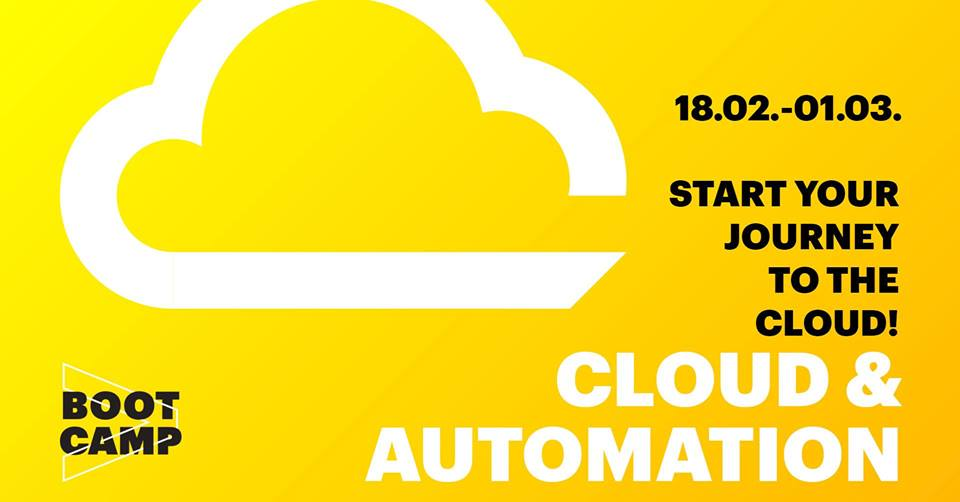
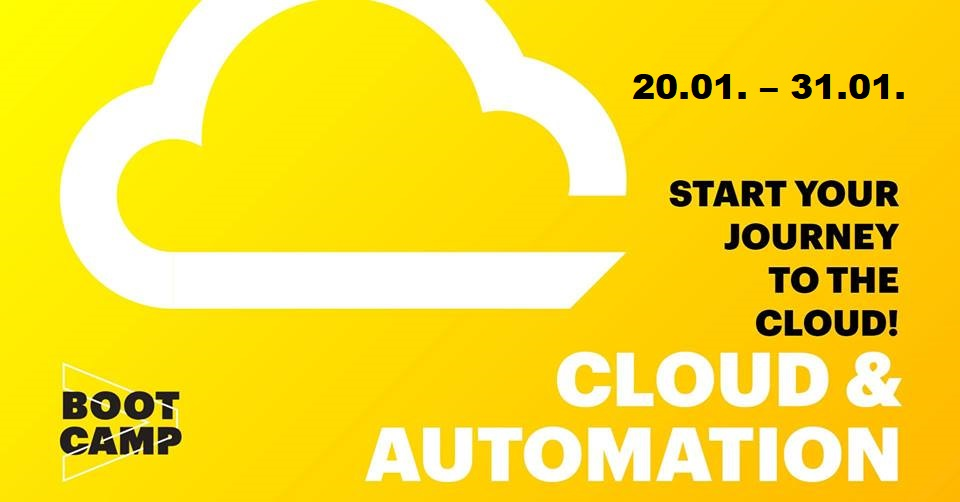
updated open roles and bootcamp date

Changed region(s): [[0.6562, 0.1494, 0.9375, 0.2689]]

diff --git a/docs/index.html b/docs/index.html
@@ -361,21 +361,21 @@
                 </a>
               </li>
               <li>
-                <a target="_blank" href="https://www.linkedin.com/jobs/cap/view/1071638933/">
+                <a target="_blank" href="https://www.linkedin.com/jobs/view/1497518856/">
                   <figure>
-                    <img src="static/images/cloud_automation_engineer.PNG" alt="Cloud Automation Engineer">
+                    <img src="static/images/role1.PNG" alt="Cloud Automation Engineer">
                     <figcaption>
-                      <h2>Cloud Automation Engineer</h2>
+                      <h2>AWS Cloud Engineer</h2>
                     </figcaption>
                   </figure>
                 </a>
               </li>
               <li>
-                <a target="_blank" href="https://www.linkedin.com/jobs/cap/view/1071641906/">
+                <a target="_blank" href="https://www.linkedin.com/jobs/view/1509183265/">
                   <figure>
-                    <img src="static/images/cloud_infrastructure_engineer.PNG" alt="Cloud Infrastructure Engineer">
+                    <img src="static/images/role2.PNG" alt="Cloud Infrastructure Engineer">
                     <figcaption>
-                      <h2>Cloud Infrastructure Engineer</h2>
+                      <h2>AWS Cloud Architect</h2>
                     </figcaption>
                   </figure>
                 </a>
